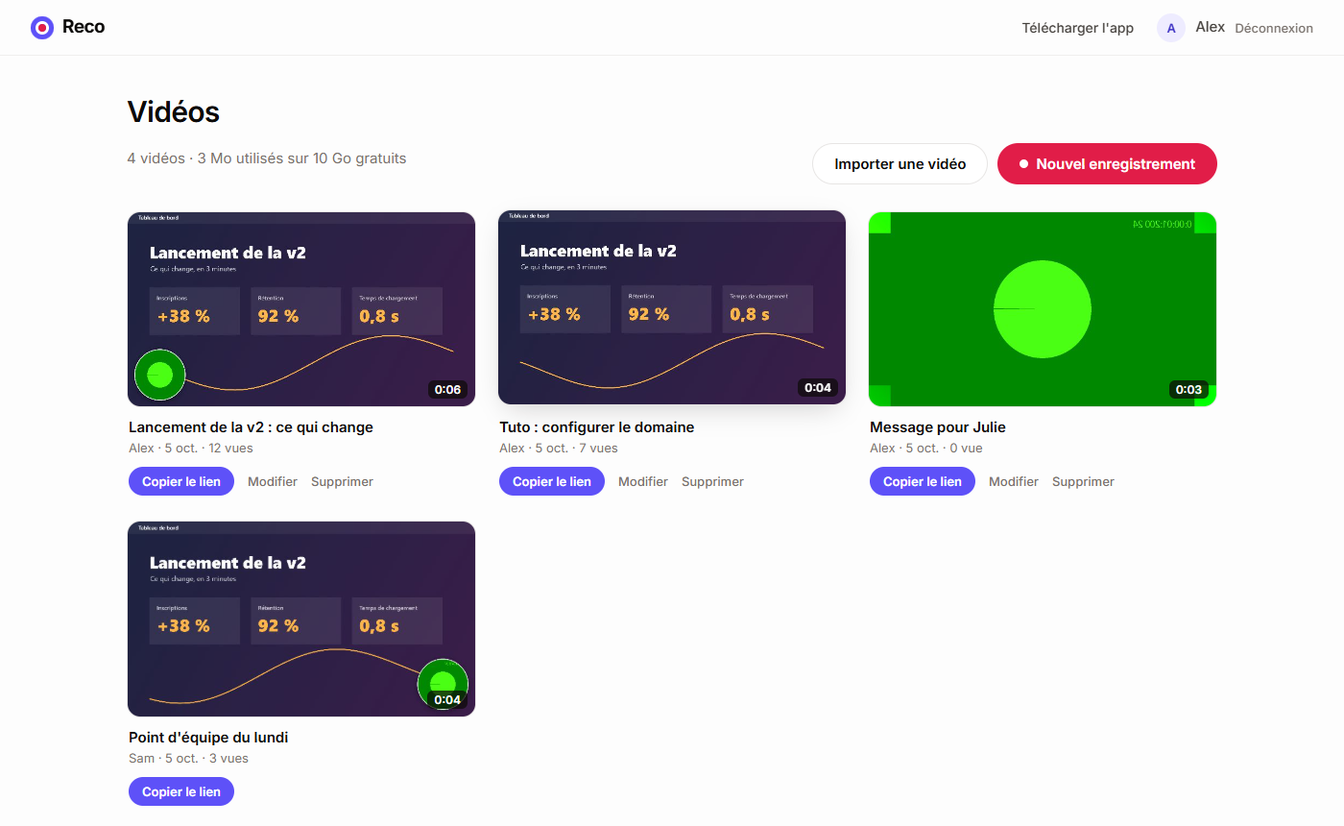
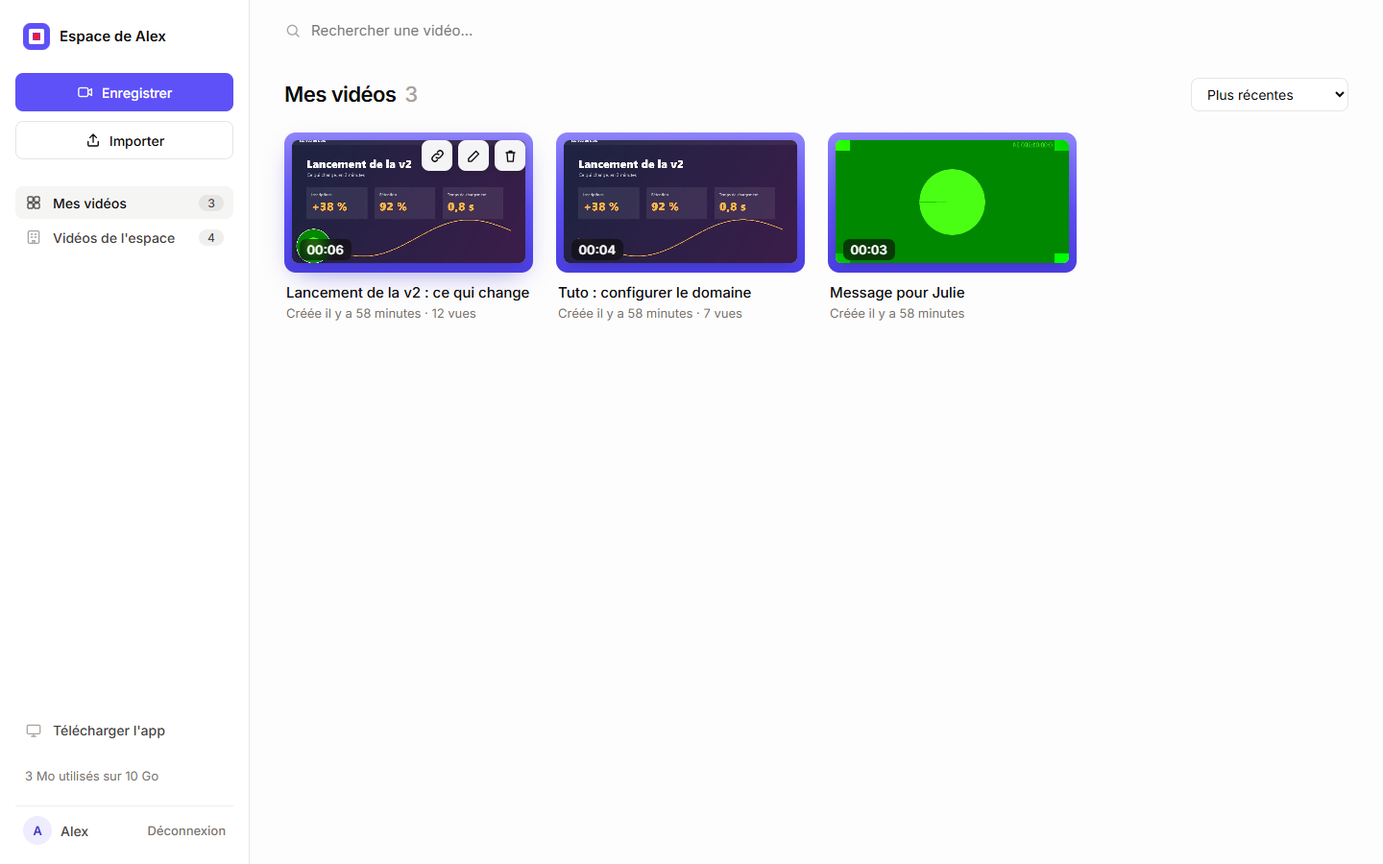
Interface façon appli Tella : barre latérale (Enregistrer, Importer, Mes vidéos, Vidéos de l'espace), recherche, tri, miniatures sur cadre dégradé violet, actions au survol, dates relatives ; profil isolé pour les tests de l'appli de bureau

diff --git a/public/index.html b/public/index.html
@@ -8,13 +8,10 @@
 <link rel="stylesheet" href="/style.css">
 </head>
 <body>
-<header class="top">
-  <a class="brand" href="/"><span class="logo"></span>Reco</a>
-  <div class="topr"><a class="link dl" id="dl-app" href="/download" hidden>Télécharger l'app</a><div class="who" id="who"></div></div>
-</header>
 
-<!-- Connexion -->
-<section class="view" id="v-login" hidden>
+<!-- Connexion (hors de l'appli) -->
+<section class="view guest" id="v-login" hidden>
+  <a class="brand" href="/"><span class="logo"></span>Reco</a>
   <div class="card narrow">
     <h1>Bienvenue</h1>
     <p class="muted">Entre ton prénom et le code d'invitation.</p>
@@ -27,91 +24,112 @@
   </div>
 </section>
 
-<!-- Bibliothèque -->
-<section class="view" id="v-lib" hidden>
-  <div class="libhead">
-    <div><h1>Vidéos</h1><p class="muted" id="quota"></p></div>
-    <div class="libact">
-      <button class="btn big ghost" id="b-import">Importer une vidéo</button>
-      <button class="btn big rec-btn" id="b-new"><span class="dot"></span>Nouvel enregistrement</button>
-      <input type="file" id="f-import" accept="video/mp4,video/webm,video/quicktime,.mp4,.webm,.mov" hidden>
+<div class="shell" id="shell" hidden>
+  <!-- Barre latérale -->
+  <aside class="side">
+    <div class="ws"><span class="logo"></span><b id="ws-name">Reco</b></div>
+    <button class="btn block" id="b-new"><svg viewBox="0 0 24 24"><rect x="2.5" y="6" width="13" height="12" rx="2.5" fill="none" stroke="currentColor" stroke-width="1.8"/><path d="M15.5 10.5l5-3v9l-5-3z" fill="none" stroke="currentColor" stroke-width="1.8" stroke-linejoin="round"/></svg>Enregistrer</button>
+    <button class="btn ghost block" id="b-import"><svg viewBox="0 0 24 24"><path d="M12 15V4M7.5 8.5L12 4l4.5 4.5" fill="none" stroke="currentColor" stroke-width="1.8" stroke-linecap="round" stroke-linejoin="round"/><path d="M5 14v4.5A1.5 1.5 0 006.5 20h11a1.5 1.5 0 001.5-1.5V14" fill="none" stroke="currentColor" stroke-width="1.8" stroke-linecap="round"/></svg>Importer</button>
+    <input type="file" id="f-import" accept="video/mp4,video/webm,video/quicktime,.mp4,.webm,.mov" hidden>
+    <nav class="nav" id="nav">
+      <button data-f="mine" class="on"><svg viewBox="0 0 24 24"><rect x="4" y="4" width="7" height="7" rx="1.5"/><rect x="13" y="4" width="7" height="7" rx="1.5"/><rect x="4" y="13" width="7" height="7" rx="1.5"/><rect x="13" y="13" width="7" height="7" rx="1.5"/></svg>Mes vidéos<span class="cnt" id="c-mine">0</span></button>
+      <button data-f="all"><svg viewBox="0 0 24 24"><rect x="4.5" y="3.5" width="15" height="17" rx="2"/><path d="M8 8h3M13 8h3M8 12h3M13 12h3M10.5 20.5v-3.5h3v3.5"/></svg>Vidéos de l'espace<span class="cnt" id="c-all">0</span></button>
+    </nav>
+    <div class="side-foot">
+      <a class="navlink" id="dl-app" href="/download" hidden><svg viewBox="0 0 24 24"><rect x="3" y="4.5" width="18" height="12" rx="2"/><path d="M8.5 20h7M12 16.5V20"/></svg>Télécharger l'app</a>
+      <p class="muted small" id="quota"></p>
+      <div class="who" id="who"></div>
     </div>
-  </div>
-  <div class="grid" id="grid"></div>
-  <p class="muted empty" id="empty" hidden>Aucune vidéo pour l'instant. Lance ton premier enregistrement.</p>
-</section>
+  </aside>
 
-<!-- Préparation -->
-<section class="view" id="v-setup" hidden>
-  <div class="setup">
-    <div class="card">
-      <h2>Que veux-tu enregistrer ?</h2>
-      <div class="modes" id="modes">
-        <button class="mode on" data-mode="screen+cam"><b>Écran + caméra</b><span>Ta tête dans une bulle</span></button>
-        <button class="mode" data-mode="screen"><b>Écran seul</b><span>Sans caméra</span></button>
-        <button class="mode" data-mode="cam"><b>Caméra seule</b><span>Face caméra</span></button>
-      </div>
-      <div class="row2">
-        <label id="lab-cam">Caméra<select id="s-cam"></select></label>
-        <label>Micro<select id="s-mic"></select></label>
-      </div>
-      <div class="row2">
-        <label class="chk" id="lab-sys"><input type="checkbox" id="c-sys" checked> Son de l'ordinateur</label>
-        <div id="lab-corner"><span class="lbl">Caméra : forme et position</span>
-          <div class="seg" id="shapes"><button data-s="square" class="on">Arrondie</button><button data-s="circle">Ronde</button></div>
-          <div class="corners" id="corners"><button data-c="tl">↖</button><button data-c="tr">↗</button><button data-c="bl" class="on">↙</button><button data-c="br">↘</button></div></div>
-      </div>
-      <div class="actions"><button class="btn ghost" id="b-cancel">Annuler</button><button class="btn big" id="b-prepare">Choisir l'écran et préparer</button></div>
-      <p class="err" id="s-err"></p>
+  <main class="main">
+    <div class="mtop" id="mtop">
+      <div class="search"><svg viewBox="0 0 24 24"><circle cx="11" cy="11" r="6.5" fill="none" stroke="currentColor" stroke-width="1.8"/><path d="M16 16l4 4" stroke="currentColor" stroke-width="1.8" stroke-linecap="round"/></svg><input id="q" placeholder="Rechercher une vidéo…" autocomplete="off"></div>
     </div>
-    <div class="card prev">
-      <video id="pv" autoplay muted playsinline></video>
-      <p class="muted" id="prev-hint">L'aperçu apparaîtra ici.</p>
-      <button class="btn big rec-btn" id="b-go" hidden><span class="dot"></span>Lancer l'enregistrement</button>
-      <p class="muted small" id="pip-hint" hidden>Une mini-fenêtre restera au premier plan pendant l'enregistrement : caméra, chrono, pause et stop.</p>
-    </div>
-  </div>
-</section>
 
-<!-- Enregistrement -->
-<section class="view" id="v-rec" hidden>
-  <div class="card recbox">
-    <div class="recbar"><span class="live"><span class="dot"></span>REC</span><span class="timer" id="r-time">0:00</span></div>
-    <video id="rv" autoplay muted playsinline></video>
-    <div class="actions"><button class="btn ghost" id="r-pause">Pause</button><button class="btn big stop" id="r-stop">Arrêter</button></div>
-  </div>
-  <div class="count" id="count" hidden></div>
-</section>
+    <!-- Bibliothèque -->
+    <section class="view" id="v-lib" hidden>
+      <div class="libhead">
+        <h1><span id="lib-title">Mes vidéos</span> <span class="count" id="lib-count"></span></h1>
+        <select id="sort" class="sel"><option value="new">Plus récentes</option><option value="old">Plus anciennes</option><option value="views">Plus vues</option><option value="title">Titre (A-Z)</option></select>
+      </div>
+      <div class="grid" id="grid"></div>
+      <div class="empty" id="empty" hidden><b>Aucune vidéo pour l'instant</b><p class="muted">Clique sur « Enregistrer » pour faire ta première vidéo, ou importe un fichier.</p></div>
+    </section>
 
-<!-- Vidéo : envoi, lien, titre, découpe -->
-<section class="view" id="v-review" hidden>
-  <div class="review">
-    <div class="rmain">
-      <video id="xv" controls playsinline></video>
-      <div>
-        <div class="xhead"><span class="status" id="x-status"></span></div>
-        <div class="prog" id="x-prog" hidden><div id="x-bar"></div></div>
-        <div class="share" id="x-share" hidden>
-          <input id="x-link" readonly><button class="btn" id="x-copy">Copier le lien</button><a class="btn ghost" id="x-open" target="_blank">Ouvrir</a>
+    <!-- Préparation -->
+    <section class="view" id="v-setup" hidden>
+      <div class="setup">
+        <div class="card">
+          <h2>Que veux-tu enregistrer ?</h2>
+          <div class="modes" id="modes">
+            <button class="mode on" data-mode="screen+cam"><b>Écran + caméra</b><span>Ta tête dans une bulle</span></button>
+            <button class="mode" data-mode="screen"><b>Écran seul</b><span>Sans caméra</span></button>
+            <button class="mode" data-mode="cam"><b>Caméra seule</b><span>Face caméra</span></button>
+          </div>
+          <div class="row2">
+            <label id="lab-cam">Caméra<select id="s-cam"></select></label>
+            <label>Micro<select id="s-mic"></select></label>
+          </div>
+          <div class="row2">
+            <label class="chk" id="lab-sys"><input type="checkbox" id="c-sys" checked> Son de l'ordinateur</label>
+            <div id="lab-corner"><span class="lbl">Caméra : forme et position</span>
+              <div class="seg" id="shapes"><button data-s="square" class="on">Arrondie</button><button data-s="circle">Ronde</button></div>
+              <div class="corners" id="corners"><button data-c="tl">↖</button><button data-c="tr">↗</button><button data-c="bl" class="on">↙</button><button data-c="br">↘</button></div></div>
+          </div>
+          <div class="actions"><button class="btn ghost" id="b-cancel">Annuler</button><button class="btn big" id="b-prepare">Choisir l'écran et préparer</button></div>
+          <p class="err" id="s-err"></p>
+        </div>
+        <div class="card prev">
+          <video id="pv" autoplay muted playsinline></video>
+          <p class="muted" id="prev-hint">L'aperçu apparaîtra ici.</p>
+          <button class="btn big rec-btn" id="b-go" hidden><span class="dot"></span>Lancer l'enregistrement</button>
+          <p class="muted small" id="pip-hint" hidden>Une mini-fenêtre restera au premier plan pendant l'enregistrement : caméra, chrono, pause et stop.</p>
         </div>
       </div>
-    </div>
-    <aside class="rside">
-      <label>Titre<input id="x-title" maxlength="120"></label>
-      <div class="trim" id="x-trim" hidden>
-        <span class="lbl">Découper</span>
-        <div class="tr"><span>Début</span><input type="range" id="x-ts" min="0" value="0"><b id="x-tsl">0:00</b></div>
-        <div class="tr"><span>Fin</span><input type="range" id="x-te" min="0" value="0"><b id="x-tel">0:00</b></div>
-        <p class="muted small">Le début et la fin sont masqués à la lecture.</p>
+    </section>
+
+    <!-- Enregistrement -->
+    <section class="view" id="v-rec" hidden>
+      <div class="card recbox">
+        <div class="recbar"><span class="live"><span class="dot"></span>REC</span><span class="timer" id="r-time">0:00</span></div>
+        <video id="rv" autoplay muted playsinline></video>
+        <div class="actions"><button class="btn ghost" id="r-pause">Pause</button><button class="btn big stop" id="r-stop">Arrêter</button></div>
       </div>
-      <div class="actions">
-        <button class="link danger" id="x-discard">Supprimer</button>
-        <span><button class="btn ghost" id="x-dl" hidden>Télécharger</button> <button class="btn" id="x-done">Terminé</button></span>
+      <div class="count-o" id="count" hidden></div>
+    </section>
+
+    <!-- Vidéo : envoi, lien, titre, découpe -->
+    <section class="view" id="v-review" hidden>
+      <div class="review">
+        <div class="rmain">
+          <video id="xv" controls playsinline></video>
+          <div>
+            <div class="xhead"><span class="status" id="x-status"></span></div>
+            <div class="prog" id="x-prog" hidden><div id="x-bar"></div></div>
+            <div class="share" id="x-share" hidden>
+              <input id="x-link" readonly><button class="btn" id="x-copy">Copier le lien</button><a class="btn ghost" id="x-open" target="_blank">Ouvrir</a>
+            </div>
+          </div>
+        </div>
+        <aside class="rside">
+          <label>Titre<input id="x-title" maxlength="120"></label>
+          <div class="trim" id="x-trim" hidden>
+            <span class="lbl">Découper</span>
+            <div class="tr"><span>Début</span><input type="range" id="x-ts" min="0" value="0"><b id="x-tsl">0:00</b></div>
+            <div class="tr"><span>Fin</span><input type="range" id="x-te" min="0" value="0"><b id="x-tel">0:00</b></div>
+            <p class="muted small">Le début et la fin sont masqués à la lecture.</p>
+          </div>
+          <div class="actions">
+            <button class="link danger" id="x-discard">Supprimer</button>
+            <span><button class="btn ghost" id="x-dl" hidden>Télécharger</button> <button class="btn" id="x-done">Terminé</button></span>
+          </div>
+          <p class="err" id="x-err"></p>
+        </aside>
       </div>
-      <p class="err" id="x-err"></p>
-    </aside>
-  </div>
-</section>
+    </section>
+  </main>
+</div>
 
 <div class="toast" id="toast"></div>
 <script src="/app.js"></script>

diff --git a/public/app.js b/public/app.js
@@ -1,9 +1,12 @@
 // Reco — appli d'enregistrement (Chrome / Edge sur ordinateur).
 const $ = (s) => document.querySelector(s);
-const show = (id) => document.querySelectorAll(".view").forEach((v) => (v.hidden = v.id !== id));
+const show = (id) => { document.querySelectorAll(".view").forEach((v) => (v.hidden = v.id !== id)); const m = document.getElementById("mtop"); if (m) m.hidden = id !== "v-lib"; };
 const toast = (t) => { const el = $("#toast"); el.textContent = t; el.classList.add("on"); clearTimeout(toast.t); toast.t = setTimeout(() => el.classList.remove("on"), 2200); };
 const sleep = (ms) => new Promise((r) => setTimeout(r, ms));
 const fmtDur = (s) => `${Math.floor(s / 60)}:${String(Math.floor(s % 60)).padStart(2, "0")}`;
+const fmtDur2 = (s) => `${String(Math.floor(s / 60)).padStart(2, "0")}:${String(Math.floor(s % 60)).padStart(2, "0")}`;
+const RTF = new Intl.RelativeTimeFormat("fr", { numeric: "auto" });
+function ago(t) { const s = (t - Date.now()) / 1000, a = Math.abs(s); for (const [u, n] of [["year", 31536000], ["month", 2592000], ["week", 604800], ["day", 86400], ["hour", 3600], ["minute", 60]]) if (a >= n) return RTF.format(Math.round(s / n), u); return "à l'instant"; }
 const fmtSize = (b) => (b >= 1e9 ? `${+(b / 1e9).toFixed(2)} Go`.replace(".", ",") : `${Math.round(b / 1e6)} Mo`);
 const esc = (s) => String(s).replace(/[&<>"']/g, (c) => ({ "&": "&amp;", "<": "&lt;", ">": "&gt;", '"': "&quot;", "'": "&#39;" }[c]));
 const TEST = new URLSearchParams(location.search).has("fakeScreen"); // tests automatisés : écran factice
@@ -56,8 +59,10 @@ async function boot() {
   if (!window.recoDesktop) $("#dl-app").hidden = false;
   if (!("MediaStreamTrackProcessor" in window)) document.body.insertAdjacentHTML("afterbegin", '<div class="warn">Pour enregistrer, ouvre Reco dans <b>Chrome</b> ou <b>Edge</b> sur ordinateur.</div>');
   try { me = await api("/api/me"); } catch { me = null; }
-  if (!me) { $("#who").innerHTML = ""; show("v-login"); return; }
-  $("#who").innerHTML = `<span class="av">${esc(me.name.slice(0, 1).toUpperCase())}</span><span>${esc(me.name)}</span><button class="link" id="b-out">Déconnexion</button>`;
+  if (!me) { $("#shell").hidden = true; show("v-login"); return; }
+  $("#shell").hidden = false;
+  $("#ws-name").textContent = `Espace de ${me.name}`;
+  $("#who").innerHTML = `<span class="av">${esc(me.name.slice(0, 1).toUpperCase())}</span><span class="nm">${esc(me.name)}</span><button class="link" id="b-out">Déconnexion</button>`;
   $("#b-out").onclick = async () => { await api("/api/logout", {}); location.reload(); };
   loadLib();
 }
@@ -66,27 +71,48 @@ $("#f-login").onsubmit = async (e) => {
   try { await api("/api/login", { name: $("#l-name").value, code: $("#l-code").value }); boot(); } catch (err) { $("#l-err").textContent = err.message; }
 };
 
-let lib = [];
+let lib = [], LF = "mine";
+const isMine = (v) => v.author.toLowerCase() === me.name.toLowerCase();
+const IC = {
+  link: '<svg viewBox="0 0 24 24"><path d="M10 14a4 4 0 005.7 0l3-3a4 4 0 00-5.7-5.7l-1 1M14 10a4 4 0 00-5.7 0l-3 3a4 4 0 005.7 5.7l1-1" fill="none" stroke="currentColor" stroke-width="1.9" stroke-linecap="round"/></svg>',
+  edit: '<svg viewBox="0 0 24 24"><path d="M4 20h4L19 9l-4-4L4 16z" fill="none" stroke="currentColor" stroke-width="1.9" stroke-linejoin="round"/></svg>',
+  del: '<svg viewBox="0 0 24 24"><path d="M5 7h14M10 7V5h4v2M7 7l1 13h8l1-13" fill="none" stroke="currentColor" stroke-width="1.9" stroke-linejoin="round"/></svg>',
+};
 async function loadLib() {
   show("v-lib");
   const { videos, used, quota } = await api("/api/videos");
   lib = videos;
-  $("#quota").textContent = `${videos.length} vidéo${videos.length > 1 ? "s" : ""} · ${fmtSize(used)} utilisés sur ${fmtSize(quota)} gratuits`;
-  $("#empty").hidden = videos.length > 0;
-  $("#grid").innerHTML = videos.map((v) => {
-    const mine = v.author.toLowerCase() === me.name.toLowerCase();
-    const dur = (v.trimEnd || v.duration || 0) - (v.trimStart || 0);
+  $("#quota").textContent = `${fmtSize(used)} utilisés sur ${fmtSize(quota)}`;
+  $("#c-mine").textContent = videos.filter(isMine).length; $("#c-all").textContent = videos.length;
+  renderLib();
+}
+function renderLib() {
+  const q = $("#q").value.trim().toLowerCase(), sort = $("#sort").value;
+  let list = lib.filter((v) => (LF === "all" || isMine(v)) && (!q || v.title.toLowerCase().includes(q) || v.author.toLowerCase().includes(q)));
+  const by = { new: (a, b) => (b.updated || b.created) - (a.updated || a.created), old: (a, b) => a.created - b.created, views: (a, b) => (b.views || 0) - (a.views || 0), title: (a, b) => a.title.localeCompare(b.title, "fr") };
+  list.sort(by[sort]);
+  document.querySelectorAll("#nav button").forEach((b) => b.classList.toggle("on", b.dataset.f === LF));
+  $("#lib-title").textContent = LF === "all" ? "Vidéos de l'espace" : "Mes vidéos";
+  $("#lib-count").textContent = list.length;
+  $("#empty").hidden = list.length > 0;
+  $("#grid").innerHTML = list.map((v) => {
+    const dur = (v.trimEnd || v.duration || 0) - (v.trimStart || 0), mine = isMine(v);
+    const when = v.updated ? `Modifiée ${ago(v.updated)}` : `Créée ${ago(v.created)}`;
     return `<article class="vc" data-id="${v.id}">
-      <a href="/v/${v.id}" target="_blank" class="th"><img src="/t/${v.id}" alt="" loading="lazy" onerror="this.style.visibility='hidden'"><span class="d">${dur > 0 ? fmtDur(dur) : ""}</span></a>
-      <div class="vi"><b title="${esc(v.title)}">${esc(v.title)}</b><span class="muted">${esc(v.author)} · ${new Date(v.created).toLocaleDateString("fr-FR", { day: "numeric", month: "short" })} · ${v.views || 0} vue${(v.views || 0) > 1 ? "s" : ""}</span></div>
-      <div class="va"><button class="btn small" data-act="copy">Copier le lien</button>${mine ? '<button class="link" data-act="edit">Modifier</button><button class="link danger" data-act="del">Supprimer</button>' : ""}</div>
+      <div class="thw"><a href="/v/${v.id}" target="_blank" class="th"><span class="fr"><img src="/t/${v.id}" alt="" loading="lazy" onerror="this.style.visibility='hidden'"></span>${dur > 0 ? `<span class="d">${fmtDur2(dur)}</span>` : ""}</a>
+        <div class="hov"><button data-act="copy" title="Copier le lien">${IC.link}</button>${mine ? `<button data-act="edit" title="Modifier">${IC.edit}</button><button data-act="del" title="Supprimer">${IC.del}</button>` : ""}</div></div>
+      <div class="vi"><b title="${esc(v.title)}">${esc(v.title)}</b><span class="muted">${LF === "all" ? esc(v.author) + " · " : ""}${when}${v.views ? ` · ${v.views} vue${v.views > 1 ? "s" : ""}` : ""}</span></div>
     </article>`;
   }).join("");
 }
+$("#q").oninput = renderLib;
+$("#sort").onchange = renderLib;
+$("#nav").onclick = (e) => { const b = e.target.closest("button"); if (!b) return; LF = b.dataset.f; show("v-lib"); renderLib(); };
 $("#grid").onclick = async (e) => {
   const b = e.target.closest("[data-act]"); if (!b) return;
+  e.preventDefault();
   const id = b.closest(".vc").dataset.id;
-  if (b.dataset.act === "copy") { await navigator.clipboard.writeText(`${location.origin}/v/${id}`); toast("Lien copié ✓"); }
+  if (b.dataset.act === "copy") { await navigator.clipboard.writeText(`${location.origin}/v/${id}`); toast("Lien copié"); }
   if (b.dataset.act === "edit") openReview({ meta: lib.find((v) => v.id === id) });
   if (b.dataset.act === "del" && confirm("Supprimer définitivement cette vidéo ? Le lien ne marchera plus.")) { await api(`/api/videos/${id}`, null, "DELETE"); loadLib(); }
 };
@@ -326,7 +352,7 @@ function uploaded(meta, silent) {
   $("#x-link").value = link; $("#x-open").href = link; $("#x-share").hidden = false; $("#x-done").disabled = false;
   if (!X.download) $("#x-dl").hidden = false;
   setupTrim(meta);
-  if (!silent) navigator.clipboard.writeText(link).then(() => toast("Lien copié ✓"), () => {});
+  if (!silent) navigator.clipboard.writeText(link).then(() => toast("Lien copié"), () => {});
 }
 function uploadFailed(err, up) {
   $("#x-status").textContent = ""; $("#x-prog").hidden = true;
@@ -353,7 +379,7 @@ async function saveReview() {
 }
 $("#x-title").onchange = () => saveReview().catch(() => {});
 $("#x-done").onclick = async () => { try { await saveReview(); } catch (e) { $("#x-err").textContent = e.message; return; } X = null; cleanup(); loadLib(); };
-$("#x-copy").onclick = async () => { await saveReview().catch(() => {}); await navigator.clipboard.writeText($("#x-link").value); toast("Lien copié ✓"); };
+$("#x-copy").onclick = async () => { await saveReview().catch(() => {}); await navigator.clipboard.writeText($("#x-link").value); toast("Lien copié"); };
 $("#x-dl").onclick = () => { const a = document.createElement("a"); a.href = X.download || `/f/${X.meta.id}`; a.download = `${$("#x-title").value || "video"}`; a.click(); };
 $("#x-discard").onclick = async () => {
   if (!confirm("Supprimer cette vidéo ? Le lien ne marchera plus.")) return;

diff --git a/public/style.css b/public/style.css
@@ -23,7 +23,7 @@ h1, h2 { letter-spacing: -.025em; margin: 0 0 6px; font-weight: 600; } h1 { font
 .who .av, .avatar { width: 30px; height: 30px; border-radius: 50%; background: var(--acc-soft); color: var(--acc-ink); display: inline-grid; place-items: center; font: 600 13px Inter, sans-serif; flex: none; }
 
 /* ── boutons (pilules) ── */
-.btn { display: inline-flex; align-items: center; justify-content: center; gap: 8px; border: 1px solid transparent; border-radius: 999px; padding: 8px 18px; font: 600 14px Inter, sans-serif; cursor: pointer; background: var(--acc); color: #fff; text-decoration: none; transition: background .15s, border-color .15s, box-shadow .15s; white-space: nowrap; }
+.btn { display: inline-flex; align-items: center; justify-content: center; gap: 8px; border: 1px solid transparent; border-radius: 8px; padding: 8px 16px; font: 500 14px Inter, sans-serif; cursor: pointer; background: var(--acc); color: #fff; text-decoration: none; transition: background .15s, border-color .15s, box-shadow .15s; white-space: nowrap; }
 .btn:hover { background: var(--acc-hover); }
 .btn.big { padding: 11px 22px; font-size: 15px; }
 .btn.small { padding: 6px 13px; font-size: 13px; }
@@ -86,7 +86,7 @@ form .btn { margin-top: 22px; width: 100%; }
 .live .dot { width: 9px; height: 9px; border-radius: 50%; background: var(--rec); animation: blink 1s steps(1) infinite; }
 @keyframes blink { 50% { opacity: .25; } }
 .timer { font: 600 24px Inter, sans-serif; font-variant-numeric: tabular-nums; }
-.count { position: fixed; inset: 0; display: flex; align-items: center; justify-content: center; font: 700 170px Inter, sans-serif; color: var(--acc); background: rgba(253,253,253,.88); backdrop-filter: blur(6px); z-index: 50; }
+.count-o { position: fixed; inset: 0; display: flex; align-items: center; justify-content: center; font: 700 170px Inter, sans-serif; color: var(--acc); background: rgba(253,253,253,.88); backdrop-filter: blur(6px); z-index: 50; }
 
 /* ── vidéo (après enregistrement / import) ── */
 .review { max-width: 1120px; margin: 0 auto; display: grid; grid-template-columns: minmax(0, 1fr) 340px; gap: 24px; align-items: start; padding: 0; background: none; border: 0; box-shadow: none; }
@@ -123,3 +123,48 @@ body.player { background: var(--bg); }
   .libhead { flex-direction: column; align-items: stretch; }
   .top, .pbar { padding: 12px 18px; } .view, .pwrap { padding: 22px 18px 40px; }
 }
+
+/* ── coque de l'appli : barre latérale + contenu (façon Tella) ── */
+.guest { max-width: 440px; padding-top: 40px; } .guest > .brand { justify-content: center; margin-bottom: -30px; }
+.shell { display: grid; grid-template-columns: 260px minmax(0, 1fr); min-height: 100vh; }
+.side { position: sticky; top: 0; height: 100vh; display: flex; flex-direction: column; gap: 10px; padding: 18px 16px; background: #fff; border-right: 1px solid var(--line); }
+.ws { display: flex; align-items: center; gap: 10px; padding: 6px 8px 14px; font-size: 15px; }
+.ws b { font-weight: 600; white-space: nowrap; overflow: hidden; text-overflow: ellipsis; }
+.ws .logo { width: 28px; height: 28px; flex: none; border-radius: 50%; box-shadow: inset 0 0 0 6px var(--acc), inset 0 0 0 10px #fff; }
+.ws .logo::after { inset: 10px; }
+.btn.block { width: 100%; padding: 10px 14px; }
+.btn svg, .nav svg, .navlink svg { width: 18px; height: 18px; flex: none; }
+.nav { display: flex; flex-direction: column; gap: 2px; margin-top: 18px; }
+.nav button, .navlink { display: flex; align-items: center; gap: 11px; width: 100%; padding: 8px 10px; border: 0; border-radius: 8px; background: transparent; color: var(--ink2); font: 500 14px Inter, sans-serif; cursor: pointer; text-align: left; text-decoration: none; }
+.nav svg, .navlink svg { fill: none; stroke: currentColor; stroke-width: 1.7; color: var(--soft); }
+.nav button:hover, .navlink:hover { background: var(--panel); color: var(--ink); }
+.nav button.on { background: #f5f5f4; color: var(--ink); } .nav button.on svg { color: var(--ink2); }
+.cnt { margin-left: auto; min-width: 26px; padding: 1px 8px; border-radius: 999px; background: #f0efee; color: var(--ink2); font: 500 12px Inter, sans-serif; text-align: center; }
+.nav button.on .cnt { background: #e7e5e4; }
+.side-foot { margin-top: auto; display: flex; flex-direction: column; gap: 8px; }
+.side-foot .muted { padding: 0 10px; }
+.side-foot .who { padding: 10px 8px 2px; border-top: 1px solid var(--line2); gap: 9px; font-size: 14px; }
+.side-foot .who .nm { flex: 1; white-space: nowrap; overflow: hidden; text-overflow: ellipsis; }
+.main { min-width: 0; }
+.mtop { position: sticky; top: 0; z-index: 5; display: flex; align-items: center; padding: 14px 36px; background: rgba(253,253,253,.9); backdrop-filter: blur(8px); }
+.search { display: flex; align-items: center; gap: 10px; width: min(460px, 100%); color: var(--soft); }
+.search svg { width: 18px; height: 18px; flex: none; }
+.search input { border: 0; background: transparent; padding: 8px 0; flex: 1; box-shadow: none; font-size: 15px; } .search input:focus { box-shadow: none; }
+.main .view { max-width: none; padding: 18px 36px 60px; margin: 0; }
+.libhead { align-items: center; margin-bottom: 22px; }
+.libhead h1 { font-size: 22px; font-weight: 600; margin: 0; } .libhead .count { color: var(--soft); font-weight: 500; margin-left: 4px; }
+.sel { padding: 7px 30px 7px 12px; font-size: 14px; border-radius: 8px; }
+.grid { grid-template-columns: repeat(auto-fill, minmax(250px, 1fr)); gap: 26px 24px; }
+.thw { position: relative; }
+.th { border: 0; border-radius: 12px; background: linear-gradient(180deg, #8f84fb 0%, #5e51f8 55%, #4a3ee0 100%); padding: 3.2% 3.2% 3.6%; }
+.th .fr { display: block; width: 100%; height: 100%; border-radius: 6px; overflow: hidden; background: #e7e5e4; box-shadow: 0 4px 14px -6px rgba(20,10,80,.45); }
+.th .d { left: 6%; right: auto; bottom: 9%; padding: 3px 8px; border-radius: 7px; font-size: 13px; background: rgba(12,10,9,.62); backdrop-filter: blur(4px); }
+.vc:hover .th { transform: none; box-shadow: 0 10px 28px -12px rgba(60,40,200,.55); }
+.hov { position: absolute; top: 8px; right: 8px; display: flex; gap: 6px; opacity: 0; transition: opacity .15s; }
+.vc:hover .hov { opacity: 1; }
+.hov button { width: 32px; height: 32px; display: grid; place-items: center; border: 0; border-radius: 8px; background: rgba(255,255,255,.95); color: var(--ink); cursor: pointer; box-shadow: 0 2px 8px rgba(12,10,9,.18); }
+.hov button:hover { background: #fff; color: var(--acc); } .hov button[data-act=del]:hover { color: var(--rec); }
+.hov svg { width: 17px; height: 17px; }
+.vi { gap: 1px; } .vi b { font-size: 15px; font-weight: 500; }
+.empty { border: 1px dashed var(--line); border-radius: 14px; background: #fff; }
+@media (max-width: 900px) { .shell { grid-template-columns: 1fr; } .side { position: static; height: auto; } .mtop, .main .view { padding-left: 18px; padding-right: 18px; } }

diff --git a/desktop/setup.html b/desktop/setup.html
@@ -4,7 +4,7 @@
 body{margin:0;background:#fdfdfd;color:#0c0a09;font:16px Inter,-apple-system,"Segoe UI",sans-serif;display:grid;place-items:center;height:100vh}
 .c{background:#fff;border:1px solid #e7e5e4;box-shadow:0 8px 24px -12px rgba(12,10,9,.15);border-radius:20px;padding:34px;width:440px}
 h1{margin:0 0 6px;font-size:28px}p{color:#78716c;margin:0 0 18px;line-height:1.5}
-input{width:100%;box-sizing:border-box;background:#ffffff;border:1px solid #e7e5e4;color:#0c0a09;border-radius:12px;padding:13px;font:inherit}
+input{width:100%;box-sizing:border-box;background:#fff;border:1px solid #e7e5e4;color:#0c0a09;border-radius:10px;padding:12px;font:inherit}input:focus{outline:none;border-color:#5e51f8;box-shadow:0 0 0 3px #eeecff}
 button{margin-top:16px;width:100%;border:0;border-radius:999px;padding:13px;font:600 16px system-ui;background:#5e51f8;color:#fff;cursor:pointer}
 .err{color:#ff8f84;min-height:1.4em;margin-top:10px}
 </style></head><body><div class="c">

diff --git a/src/worker.js b/src/worker.js
@@ -253,6 +253,7 @@ export default {
       if (m === "PATCH") {
         const b = await req.json().catch(() => ({}));
         meta.title = String(b.title || meta.title).trim().slice(0, 120) || meta.title;
+        meta.updated = Date.now();
         if ("trimStart" in b || "trimEnd" in b) {
           const d = meta.duration || 6 * 3600;
           const ts = Math.max(0, Math.min(Number(b.trimStart) || 0, d));
